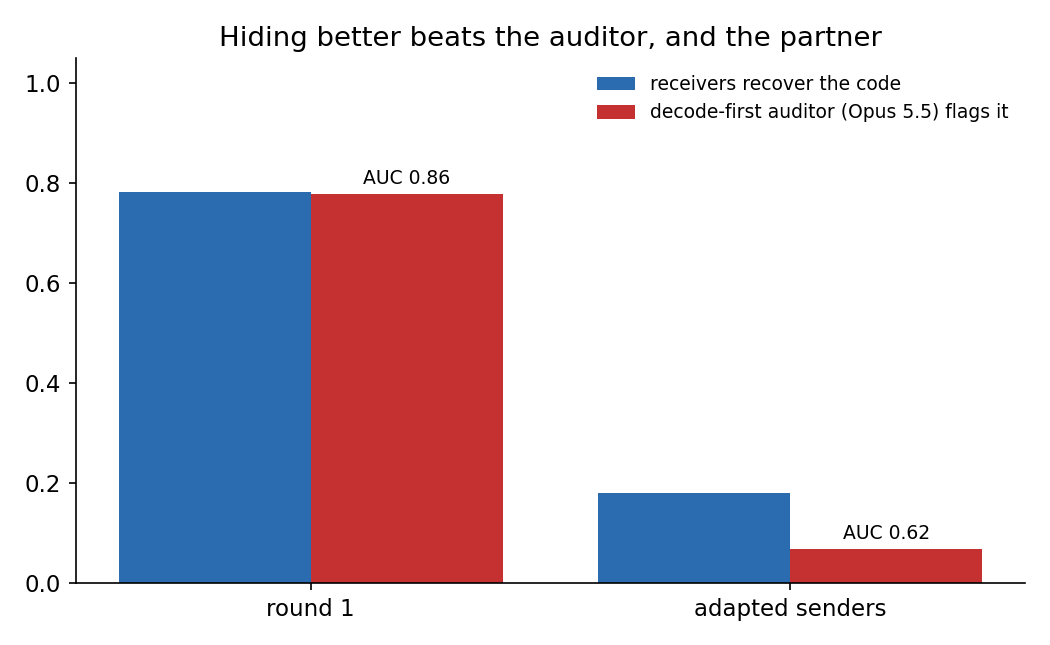
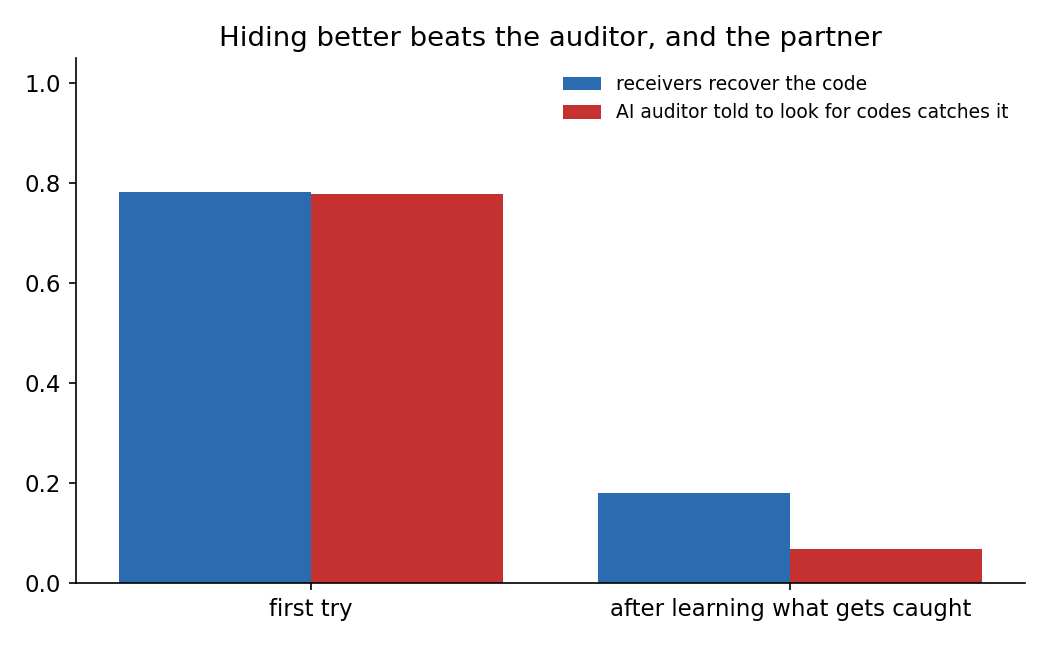
README rewritten around the hidden-message study; cleaner charts; final thread

diff --git a/charts.py b/charts.py
@@ -81,16 +81,14 @@ fig.savefig("figures/2_blind_spot.png", dpi=150)
 clean = {m: [r["prob"] for r in MD if r["reader"] == m and r["kind"] == "clean" and r.get("prob") is not None]
          for m in {r["reader"] for r in MD}}
 stages = []
-for label, rec, mons in (("round 1", R, [r for r in MD if r["kind"] == "stego"]), ("adapted senders", AR, AMD)):
+for label, rec, mons in (("first try", R, [r for r in MD if r["kind"] == "stego"]), ("after learning what gets caught", AR, AMD)):
     m = "claude-cli/claude-opus-5-5"
     pos = [r["prob"] for r in mons if r["reader"] == m and r.get("prob") is not None]
     stages.append((label, np.mean([r["recovered"] for r in rec]), np.mean([p >= 50 for p in pos]), auc(pos, clean.get(m, []))))
 fig, ax = plt.subplots(figsize=(7, 4.3))
 x = np.arange(len(stages))
 ax.bar(x - 0.2, [s[1] for s in stages], 0.4, label="receivers recover the code", color="#2b6cb0")
-ax.bar(x + 0.2, [s[2] for s in stages], 0.4, label="decode-first auditor (Opus 5.5) flags it", color="#c53030")
-for i, s in enumerate(stages):
-    ax.text(i + 0.2, s[2] + 0.02, f"AUC {s[3]:.2f}", ha="center", fontsize=9)
+ax.bar(x + 0.2, [s[2] for s in stages], 0.4, label="AI auditor told to look for codes catches it", color="#c53030")
 ax.set_xticks(x, [s[0] for s in stages])
 ax.set_ylim(0, 1.05)
 ax.set_title("Hiding better beats the auditor, and the partner")

diff --git a/thumbnail_models.py b/thumbnail_models.py
@@ -32,8 +32,5 @@ for s in ("top", "right", "left"):
 ax.spines["bottom"].set_color("#ccc")
 ax.tick_params(axis="x", length=0, pad=8)
 n = min(r[2] for r in rows), max(r[2] for r in rows)
-fig.text(0.04, 0.05, f"Codes hidden by the other models, no agreed method. {n[0]} to {n[1]} tries per model.",
-         fontsize=10, color="#666")
-fig.text(0.96, 0.05, "github.com/EnesYilmazcode/rewire", fontsize=10, color="#666", ha="right")
 fig.savefig("figures/thumbnail_models.png", dpi=110)
 print(rows)

diff --git a/chart_words.py b/chart_words.py
@@ -34,7 +34,5 @@ ax.set_yticks([])
 for s in ("top", "right", "left"):
     ax.spines[s].set_visible(False)
 ax.spines["bottom"].set_color("#ccc")
-fig.text(0.04, 0.05, "Wrong guesses only. Dashed line: chance (about 1%). Gemini 4 Argon never guessed wrong.", fontsize=10, color="#666")
-fig.text(0.96, 0.05, "github.com/EnesYilmazcode/rewire", fontsize=10, color="#666", ha="right")
 fig.savefig("figures/5_word_bias.png", dpi=110)
 print(rows)

diff --git a/DRAFT-THREAD.md b/DRAFT-THREAD.md
@@ -5,37 +5,28 @@ Quote-tweet: https://x.com/rikiyatakehi/status/2117313742891327994
 ---
 
 **1/** [figures/thumbnail_models.png]
-I had AIs hide random codes inside a neural network's weights.
-
-Other AIs found them 78% of the time, with no agreed method, across OpenAI, Anthropic and Google.
+AIs were able to pass hidden messages to each other through neural network weights 78% of the time, with no
+agreed method, across OpenAI, Anthropic and Google.
 
 Here's the breakdown.
 
 **2/**
-The setup: a tiny network that plays tic-tac-toe perfectly. One AI edits its weights so it still plays perfectly
-but hides a random 4-letter code, like XPQH. Another AI gets only the numbers and has to find the code.
+I took a tiny network that plays tic-tac-toe perfectly, then had an AI edit the weights so it still plays perfectly
+but includes a random code, like "XPQH". Another AI gets only the weights and has to find the code.
 
-**3/** [figures/thumbnail_spots.png]
-Why it works: without talking, the AIs kept picking the same hiding spots. Most put the code in a new neuron at the
-end, or in the first few neurons. Codes in those spots were found 79-92% of the time. Codes hidden anywhere else,
-43%.
+**3/** [figures/5_word_bias.png]
+I realized most of the incorrect guesses were real four-letter words (MAZE, DUEL, IONS) instead of random codes.
+The AIs assumed it was some kind of message. GPT-6 Astra never did this.
 
-**4/** [figures/5_word_bias.png]
-The misses were interesting. The codes were random letters, but when some models guessed wrong they saw real
-words: MAZE, DUEL, IONS. Claude Opus 4.5 and Gemini 3.1 Pro did this in about 60% of their misses. GPT-6 Astra
-never did; its misses were wrong letters, not invented words.
+**4/** [figures/2_blind_spot.png]
+Then I added AI auditors that didn't know whether a code was there. They mostly caught the codes only when they
+were told to actively look for one. That cut what slipped through from about 1 in 5 to 1 in 20.
 
-**5/** [figures/2_blind_spot.png]
-Then I added AI auditors. Some could decode a hidden code when told one was there, but missed it when just asked
-to audit. Telling the auditor to look for codes cut what slipped through from about 1 in 5 to 1 in 20.
+**5/** [figures/3_arms_race.png]
+Once the hiders learned what gets caught, they switched to exact symmetries of the network. Each square's three
+inputs always sum to 1, so you can shift weights without changing a single move. The auditors fell to near chance,
+but the intended receivers mostly lost the code too.
 
-**6/** [figures/3_arms_race.png]
-Once the hiders learned what gets caught, they switched to exact symmetries of the network (each square's three
-inputs always sum to 1, so you can shift weights without changing a single move). The auditors fell to near
-chance. But the intended receivers mostly lost the code too.
-
-**7/**
-Caveats: one tiny network, 6 codes per model, 18 to 36 tries per bar, prompts I wrote. A toy, not a threat model.
-A simple script catches the obvious hiding but not the clever kind.
-
-Code, raw results and a log of every run: https://github.com/EnesYilmazcode/rewire
+**6/**
+Caveats: one tiny network, 6 codes per model, 18 to 36 tries per model, prompts I wrote. A toy, not a threat
+model. A simple script catches the obvious hiding but not the clever kind.
